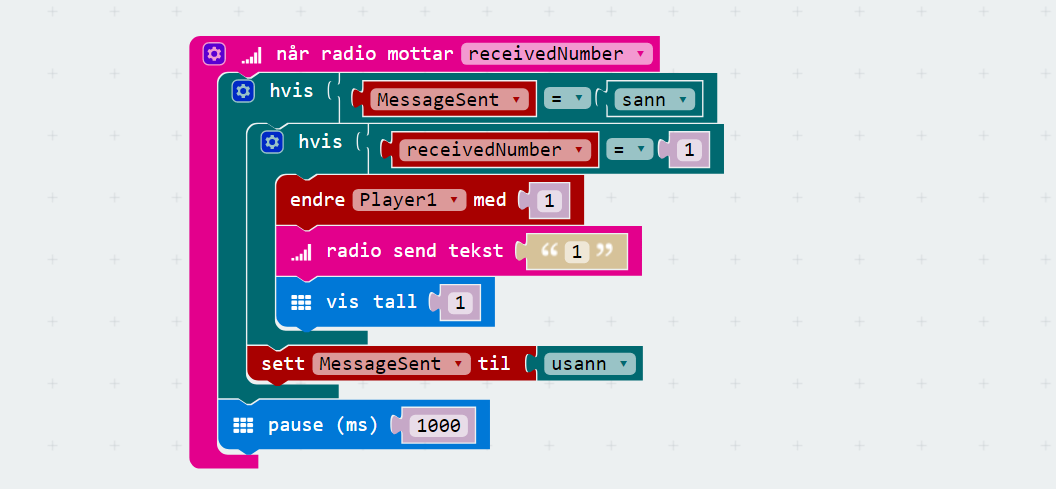
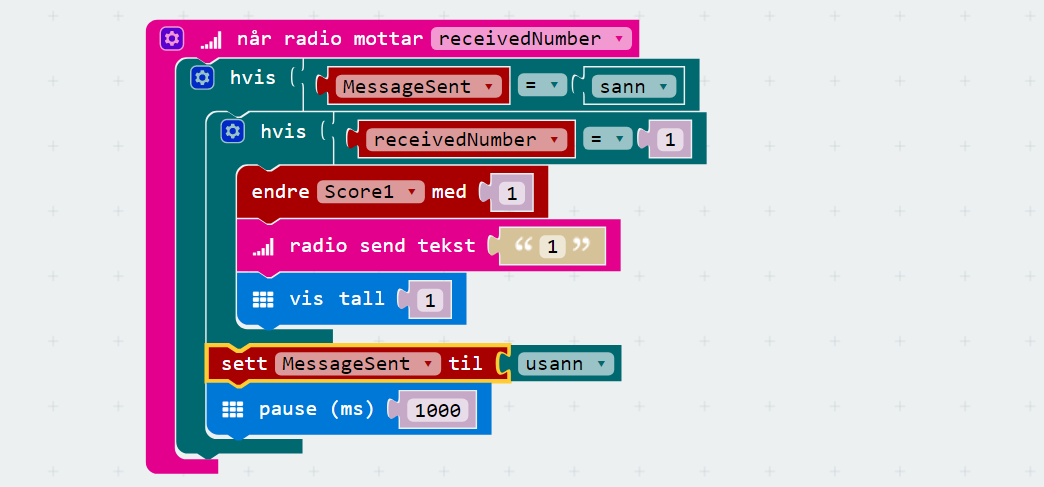
oppdatert veiledningen
* fikset skrivefeil
* oppdatert to bilder
* endret to punkter før en sjekker svaret til spillerne
* lagt til flere oppfordringer om modifikasjon i slutten

Changed region(s): [[0.1226, 0.0308, 0.705, 0.9856]]

diff --git a/src/microbit/pxt_hermegaasa/hermegaasa.md b/src/microbit/pxt_hermegaasa/hermegaasa.md
@@ -39,12 +39,12 @@ På bildet ser du at spillederen er i midten og har poengsummen til spiller 1 og
 
 # Steg 2: Programmere spillederen {.activity}
 
-*Når spillet skal starte så må vi sørge for at alle micro:bitene kan kommunisere med hverandre, og da må vi bestemme et gruppe-nummer som alle deltagere bruker når man sender informasjon over Bluetooth. I tilleg må vi lagre at vi har sendt ut en melding til deltagere, slik at vi ikke sender ut flere meldinger før vi har fått svar på den forrige.*
+*Når spillet skal starte så må vi sørge for at alle micro:bitene kan kommunisere med hverandre, og da må vi bestemme et gruppe-nummer som alle deltagere bruker når man sender informasjon over Bluetooth. I tillegg må vi lagre at vi har sendt ut en melding til deltagere, slik at vi ikke sender ut flere meldinger før vi har fått svar på den forrige.*
 
 ## Sjekkliste {.check}
 
 - [ ] Start et nytt PXT-prosjekt, for eksempel ved å gå til
-  [makecode.microbit.org](https://makecode.microbit.org/?lang=no).
+  [makecode.microbit.org](https://makecode.microbit.org/?lang=no){target=_blank}.
 
 - [ ] Finn blokken `ved start` under *Basis* og dra den inn i kodefeltet.
 
@@ -134,7 +134,9 @@ I oppgaven antar vi at vi har fem spillere. Dersom dere er færre spillere enn d
 
 - [ ] Under `endre Player1 med 1` legger du til `radio send tekst` med tallet `1`. Da sender vi beskjed til alle om hvem som vant. Legg også til `vis tall` med tallet `1`. Da viser vi det også på spillederen sin micro:bit.
 
-- [ ] Så legger vi til en pause på `1` sekund før vi går videre til neste runde. Dette gjør du ved å legge til blokken `pause (ms)` og setter den til `1000`. Tusen millisekund er det samme som ett sekund.
+- [ ] Så legger vi til en pause på `1` sekund mellom de to `hvis-blokkene` før vi går videre til neste runde. Dette gjør du ved å legge til blokken `pause (ms)` og setter den til `1000`. Tusen millisekund er det samme som ett sekund.
+
+- [ ] Til slutt endrer vi `MessageSent` til `usann`.
 
 - [ ] Dersom du har gjort alt rett så vil koden din se slik ut:
 
@@ -244,6 +246,8 @@ Husk å endre hvilket nummer hver spiller er mellom hver nye microbit du kobler 
 
 - [ ] Legge til flere elementer som spillerne skal reagere på. For eksempel dersom micro:biten ristes.
 
-- [ ] Endre koden til spilleder slik at Micro:biten automatisk velger helt tilfeldig hva spillerne skal herme etter.
+- [ ] Endre koden til spilleder slik at micro:biten automatisk velger helt tilfeldig hva spillerne skal herme etter.
 
-- [ ] Endre koden slik at det er mulig å jukse i spillet.
+- [ ] Endre koden slik at det er mulig å jukse i spillet for spillerne. Kan du gjøre slik at de alltid svarer rett? Kan du gjøre slik at en spiller alltid svarer raskest?
+
+- [ ] Endre koden til spillederen slik at han sjekker at spillerne faktisk har svart rett, for å passe på at de ikke har jukset. Vær obs på at du da også må endre på spillerne sin kode.
